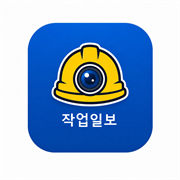
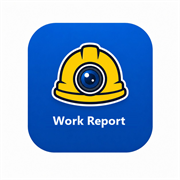
fix: 아이콘 그림은 Work Report(영문) 유지, 홈 화면 라벨만 작업일보로 표시
아이콘 안에 새겨진 텍스트를 영어 "Work Report"로 원상복구(icon-512-en 소스 재적용).
대신 manifest.json의 name/short_name과 apple-mobile-web-app-title 메타 태그를
"작업일보"로 설정해, 안드로이드/아이폰 홈 화면 추가 시 아이콘 아래 표시되는
라벨만 한글로 나오도록 분리.

Changed region(s): [[0.2778, 0.6111, 0.6944, 0.7222]]

diff --git a/app/admin.html b/app/admin.html
@@ -8,6 +8,8 @@
 <link rel="apple-touch-icon" href="icon-180.png"/>
 <link rel="manifest" href="manifest.json"/>
 <meta name="theme-color" content="#1E3A5F"/>
+<meta name="apple-mobile-web-app-title" content="작업일보"/>
+<meta name="apple-mobile-web-app-capable" content="yes"/>
 <style>
 :root{
   --brand-1:#1E3A5F; --brand-2:#2E5F9E;

diff --git a/app/index.html b/app/index.html
@@ -8,6 +8,8 @@
 <link rel="apple-touch-icon" href="icon-180.png"/>
 <link rel="manifest" href="manifest.json"/>
 <meta name="theme-color" content="#1E3A5F"/>
+<meta name="apple-mobile-web-app-title" content="작업일보"/>
+<meta name="apple-mobile-web-app-capable" content="yes"/>
 <style>
 :root{
   --brand-1:#1E3A5F; --brand-2:#2E5F9E;

diff --git a/app/login.html b/app/login.html
@@ -8,6 +8,8 @@
 <link rel="apple-touch-icon" href="icon-180.png"/>
 <link rel="manifest" href="manifest.json"/>
 <meta name="theme-color" content="#1E3A5F"/>
+<meta name="apple-mobile-web-app-title" content="작업일보"/>
+<meta name="apple-mobile-web-app-capable" content="yes"/>
 <style>
 :root{
   --brand-1:#1E3A5F; --brand-2:#2E5F9E;